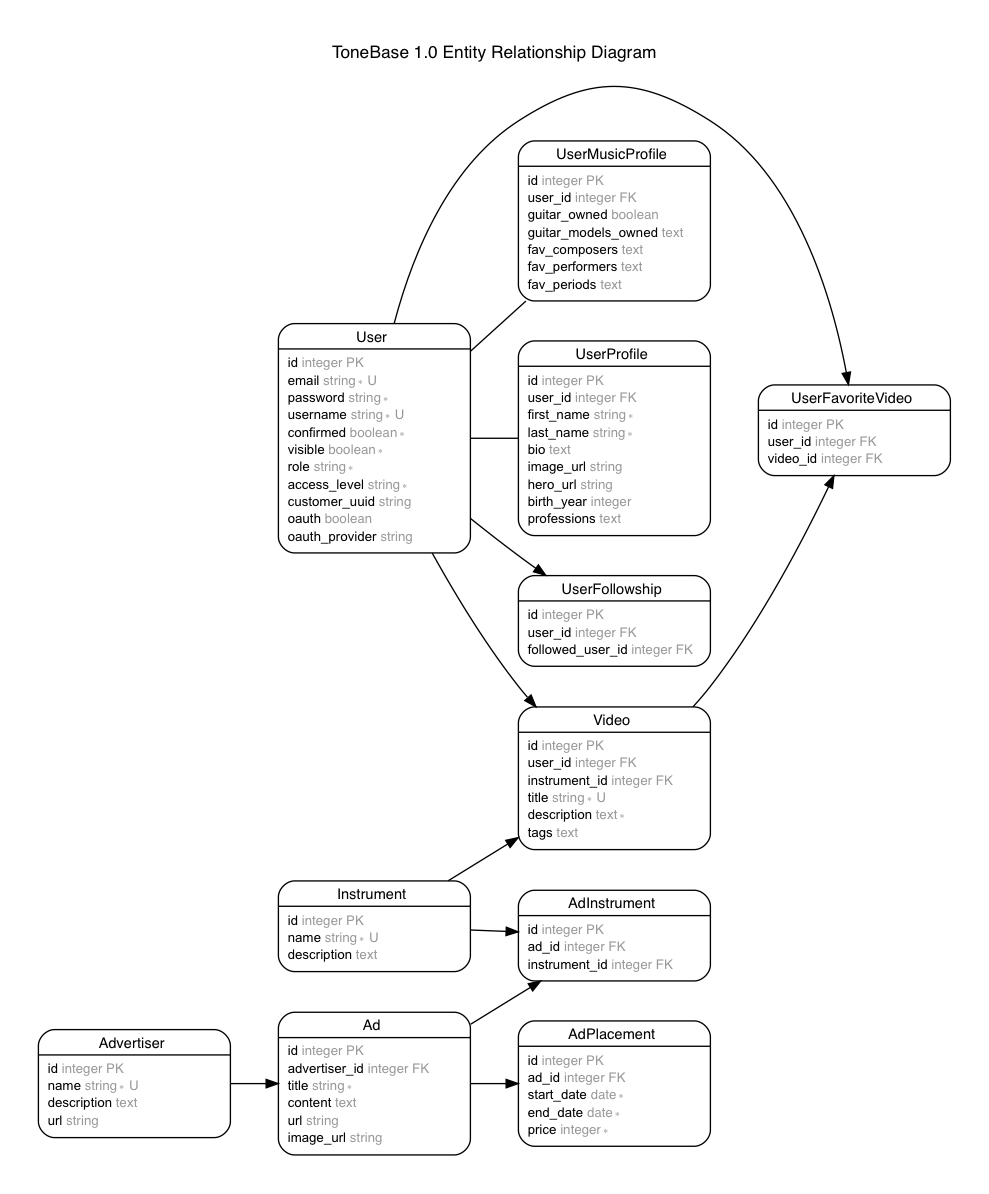
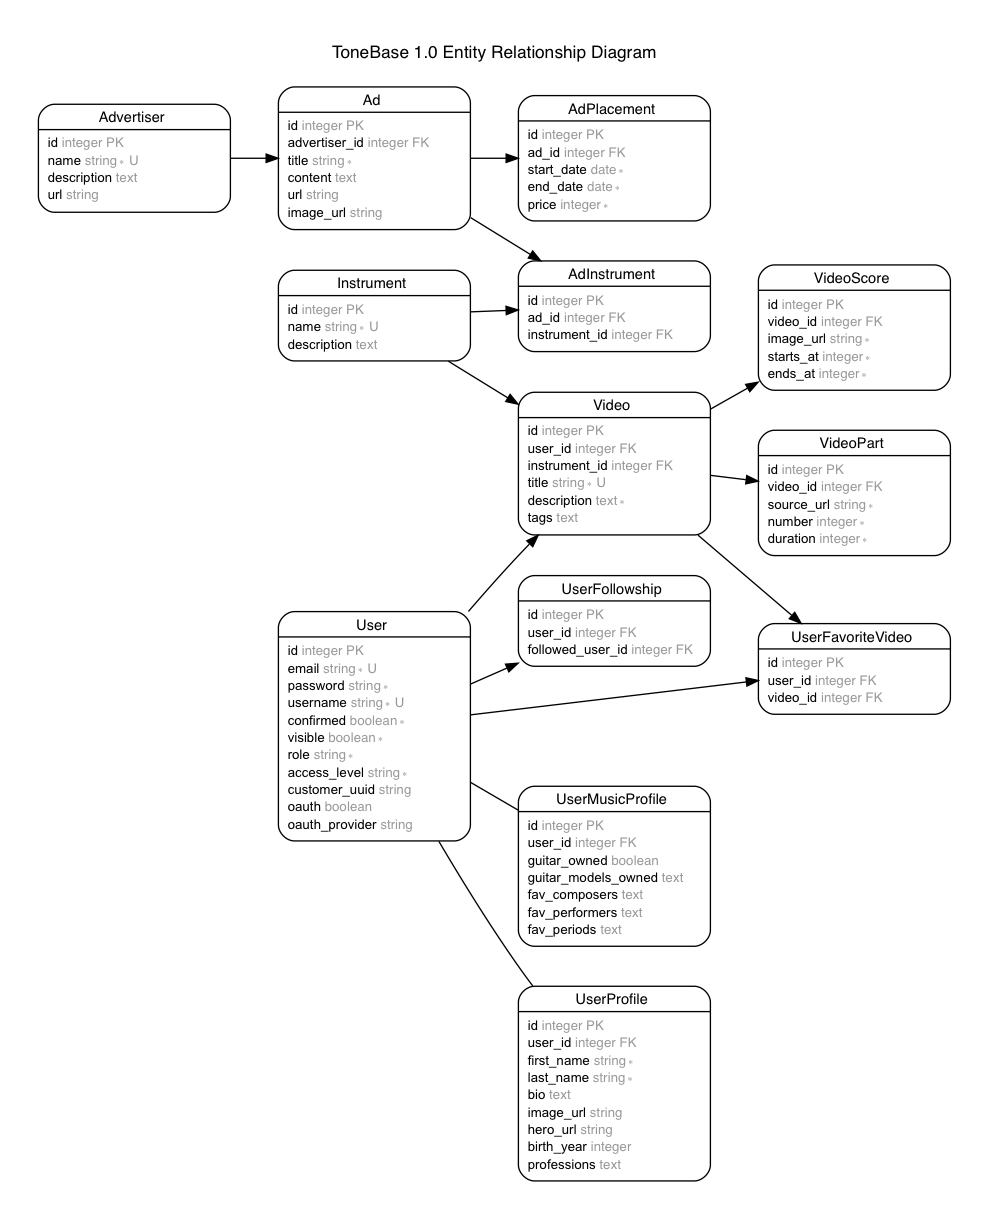
Edit factories and model tests --skip-ci

diff --git a/spec/factories/videos.rb b/spec/factories/videos.rb
@@ -9,5 +9,16 @@ FactoryGirl.define do
     trait :tagged do
       tags ["borouque", "maestrelli", "g-major"]
     end
+
+    trait :with_parts_and_scores do
+      after(:create) do |video, evaluator|
+        create(:video_part, video: video, source_url: "https://www.youtube.com/watch?v=abc123", duration: 333)
+        create(:video_part, video: video, source_url: "https://www.youtube.com/watch?v=def456", duration: 333)
+        create(:video_part, video: video, source_url: "https://www.youtube.com/watch?v=ghi789", duration: 333)
+
+        create(:video_score, video: video, image_url: "https://my-bucket.s3.amazonaws.com/my-dir/score-1-image.jpg", starts_at: 25, ends_at: 500)
+        create(:video_score, video: video, image_url: "https://my-bucket.s3.amazonaws.com/my-dir/score-2-image.jpg", starts_at: 750, ends_at: 900)
+      end
+    end
   end
 end

diff --git a/db/schema.rb b/db/schema.rb
@@ -139,6 +139,7 @@ ActiveRecord::Schema.define(version: 20170607222542) do
     t.datetime "created_at", null: false
     t.datetime "updated_at", null: false
     t.index ["number"], name: "index_video_parts_on_number", using: :btree
+    t.index ["video_id", "number"], name: "index_video_parts_on_video_id_and_number", unique: true, using: :btree
     t.index ["video_id"], name: "index_video_parts_on_video_id", using: :btree
   end
 

diff --git a/app/models/video_part.rb b/app/models/video_part.rb
@@ -4,6 +4,6 @@ class VideoPart < ApplicationRecord
   validates_associated :video
   validates :video, {presence: true}
   validates :source_url, {presence: true}
-  validates :number, {presence: true, numericality: { only_integer: true }}
+  validates :number, {presence: true, numericality: { only_integer: true }, uniqueness: {scope: :video_id}}
   validates :duration, {presence: true, numericality: { only_integer: true }}
 end

diff --git a/spec/models/video_part_spec.rb b/spec/models/video_part_spec.rb
@@ -13,5 +13,10 @@ RSpec.describe VideoPart, type: :model do
 
     it { should validate_numericality_of(:number).only_integer }
     it { should validate_numericality_of(:duration).only_integer }
+
+    context "uniqueness" do
+      subject { build(:video_part) }
+      it { should validate_uniqueness_of(:number).scoped_to(:video_id) }
+    end
   end
 end

diff --git a/spec/factories/video_scores.rb b/spec/factories/video_scores.rb
@@ -1,8 +1,8 @@
 FactoryGirl.define do
   factory :video_score do
-    video nil
-    image_url "MyString"
+    video
+    image_url "https://my-bucket.s3.amazonaws.com/my-dir/score-1-image.jpg"
     starts_at 1
-    ends_at 1
+    ends_at 75
   end
 end

diff --git a/spec/factories/video_parts.rb b/spec/factories/video_parts.rb
@@ -1,8 +1,8 @@
 FactoryGirl.define do
   factory :video_part do
-    video nil
-    source_url "MyString"
+    video
+    source_url "https://www.youtube.com/watch?v=abc123"
     number 1
-    duration 1
+    duration 333
   end
 end

diff --git a/db/migrate/20170607221844_create_video_parts.rb b/db/migrate/20170607221844_create_video_parts.rb
@@ -10,5 +10,6 @@ class CreateVideoParts < ActiveRecord::Migration[5.0]
     end
 
     add_index :video_parts, :number
+    add_index :video_parts, [:video_id, :number], unique: true
   end
 end

diff --git a/DOCS.md b/DOCS.md
@@ -480,7 +480,7 @@ name | type | description
 video_id | Integer | References the global video of which it is a part.
 source_url | String | References a video resource on the video service.
 number | Integer | The sort order of this video part (e.g. 1, 2, 3). The "X" in "Part number X of Y".
-duration | Integer (milliseconds) | The length of the video part in milliseconds.
+duration | Integer (seconds) | The length of the video part in seconds.
 
 Video Score Attributes:
 
@@ -488,8 +488,8 @@ name | type | description
 --- | --- | ---
 video_id | Integer | References the global video of which it is a part.
 image_url | String | References the score's image source.
-starts_at | Integer (milliseconds) | Begin displaying the score when the global video duration reaches this duration.
-ends_at | Integer (milliseconds) | Stop displaying the score after the global video duration reaches this duration.
+starts_at | Integer (seconds) | Begin displaying the score when the global video duration reaches this duration. The minimum should be `1`.
+ends_at | Integer (seconds) | Stop displaying the score after the global video duration reaches this duration. The maximum should be equal to the global video's duration.
 
 ### `UserFavoriteVideo`
 
